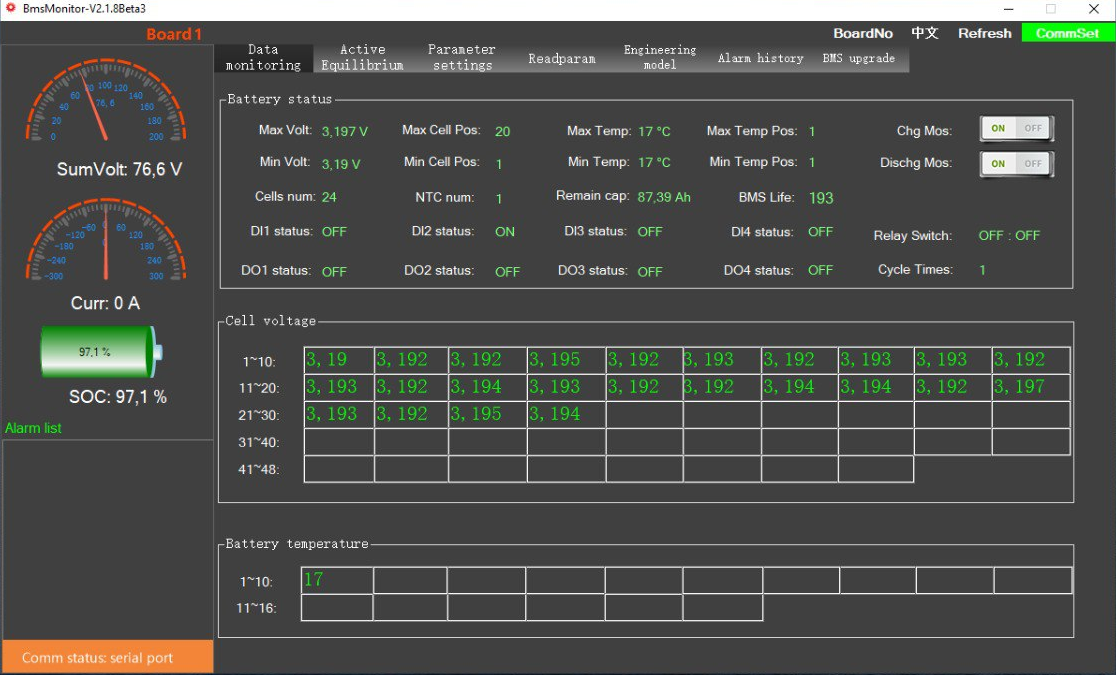
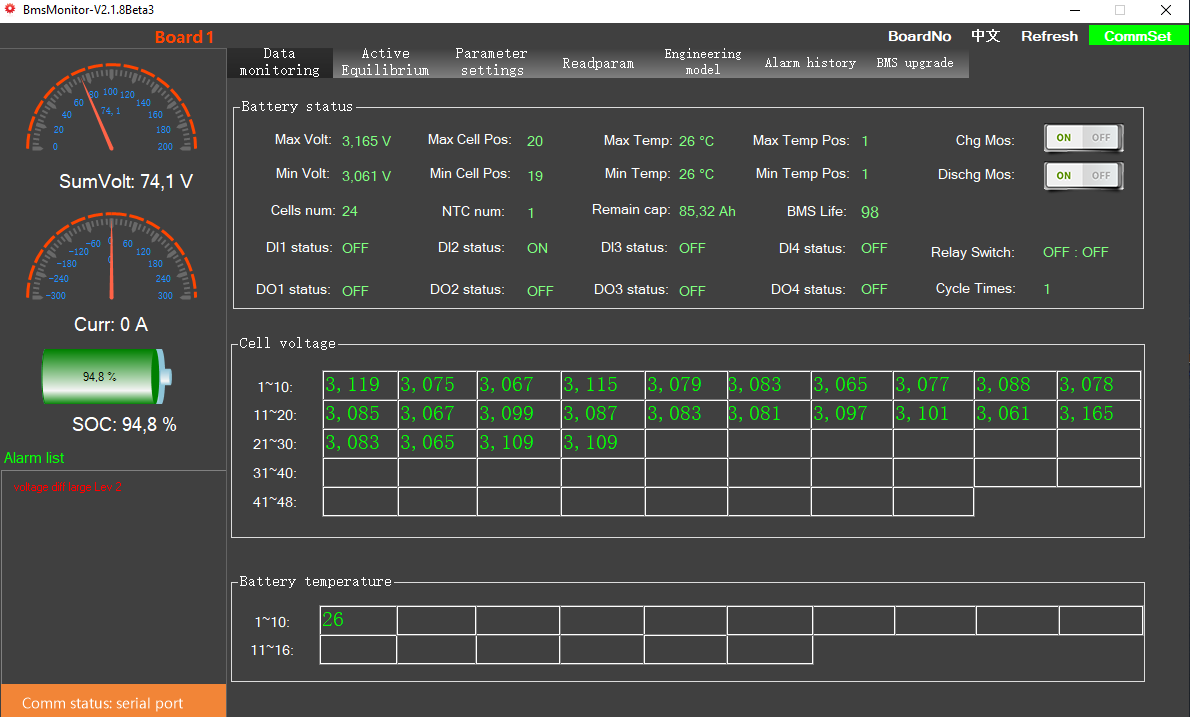
Обновил картинки приложения

diff --git a/README.md b/README.md
@@ -4,7 +4,7 @@
 **UPDATES ARE EXPECTED**
 
 В данном репозитории приводится описание расширенного протокола взаимодействия по UART с BMS (Battery Management System) ф. Daly,
-полученного с помощью реверс-инжиниринга. Акцент при исследовании сделан на чтение параметров
+полученного с помощью реверс-инжиниринга. Акцент при исследовании протокола сделан на чтение параметров
 
 ### Особенности исследования протокола / Protocol Research Details
 
@@ -15,7 +15,7 @@
 Стоит отметить, что данное приложение совместимо только с определенным модельным рядом, по найденной информации от RT16T и выше.
 Способ взаимодействия с приложением определяется возможностями конкретной платы, однако в общем случае используется интерфейс UART
 
-![](.images/bms_monitor_4.png)
+![](.images/bms_monitor_6.png)
 
 Для анализа передаваемых сообщений между приложением и платой реализована схема, представленная ниже.
 Интерфейс UART типа точка-точка заменен на общую шину RS-485, к которой с помощью преобразователя подключается ноутбук.
